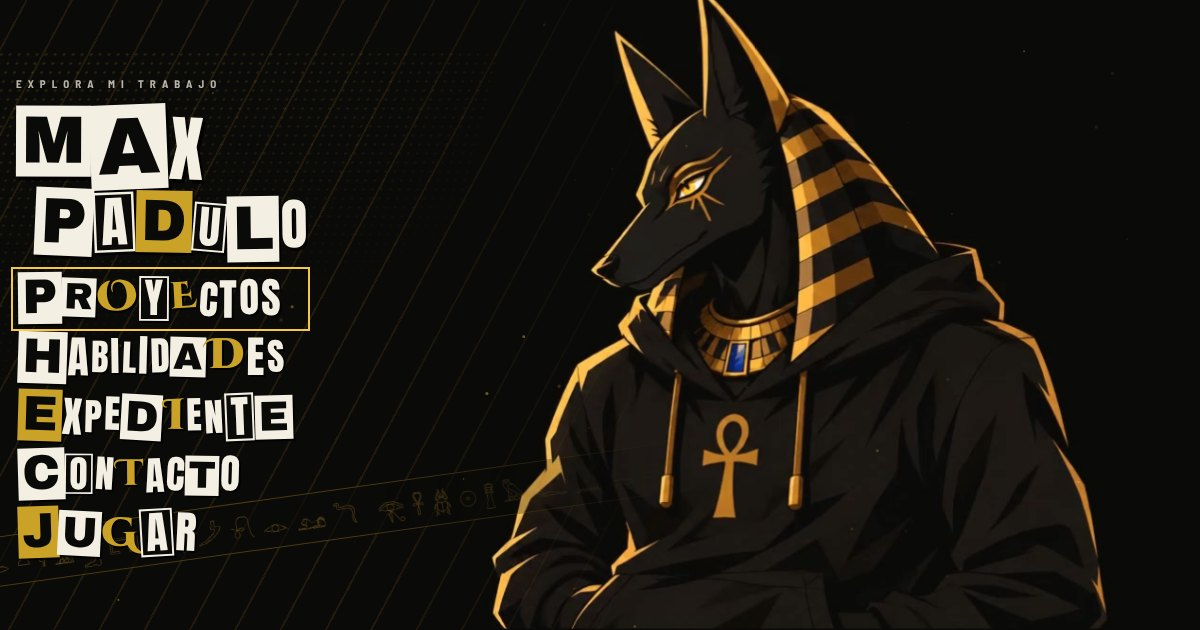
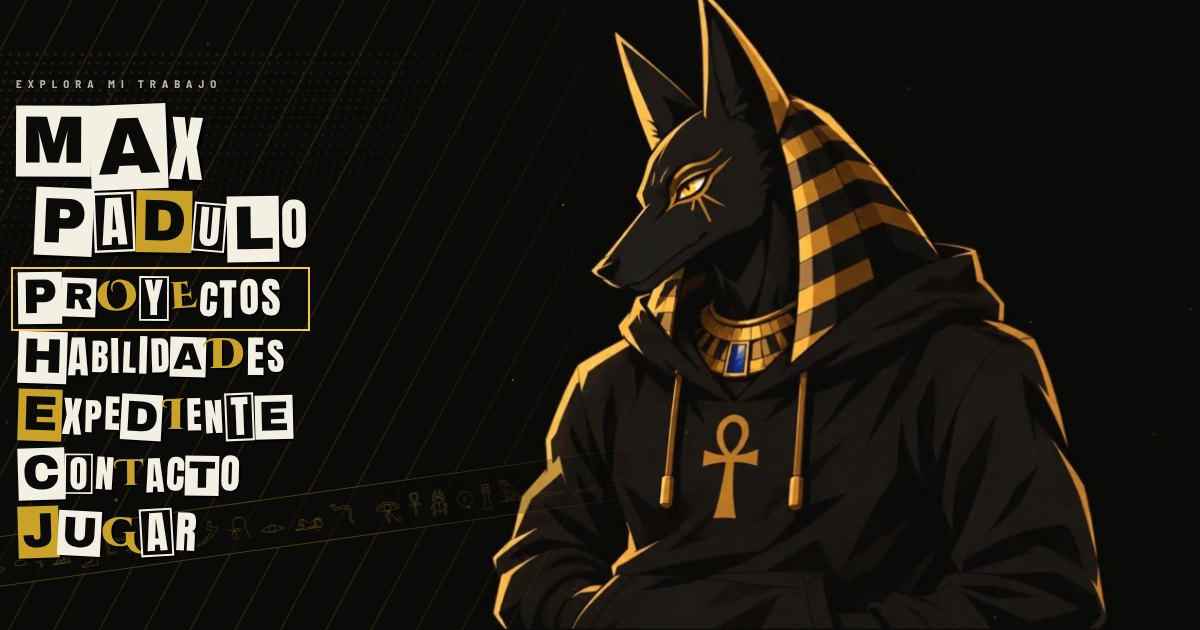
Activar La carrera del chacal para pruebas
Claude-Session: https://claude.ai/code/session_01JS6Rch1mtVk68hbfH4fvsG

diff --git a/index.html b/index.html
@@ -814,7 +814,7 @@ const CONTENT={
     games:[
       {id:'memoria',name:'MEMORIA DE JEROGLÍFICOS',unit:'pts',controls:'Ratón, toque o flechas + Enter',
        short:'Empareja los jeroglíficos antes de que pase el tiempo. Encadena aciertos para multiplicar los puntos.'},
-      {id:'carrera',name:'LA CARRERA DEL CHACAL',unit:'m',controls:'Próximamente',sealed:true,
+      {id:'carrera',name:'LA CARRERA DEL CHACAL',unit:'m',controls:'Espacio, ↑ o toque para saltar',
        short:'Corre por el desierto, salta escarabajos, cobras y trampas, y recoge todos los ankhs que puedas.'},
       {id:'juicio',name:'EL JUICIO DE LAS ALMAS',unit:'pts',controls:'Próximamente',sealed:true,
        short:'Pesa el corazón de cada alma: ¿código limpio o código con fallos? Decide antes de que se incline la balanza.'}
